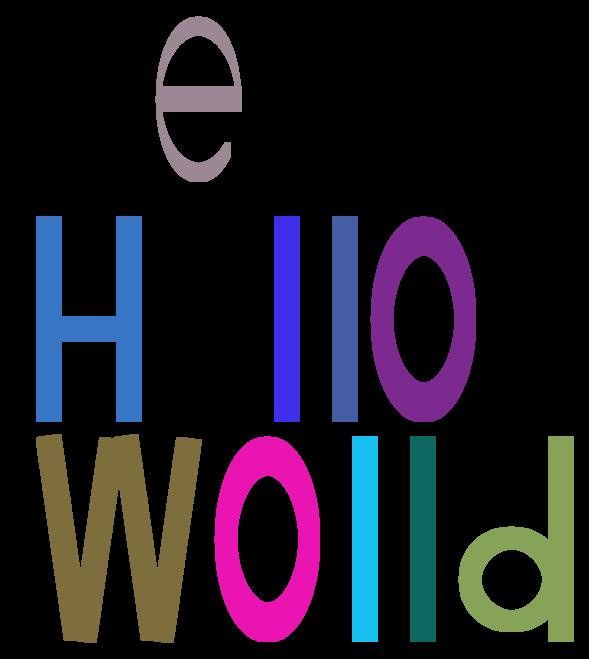
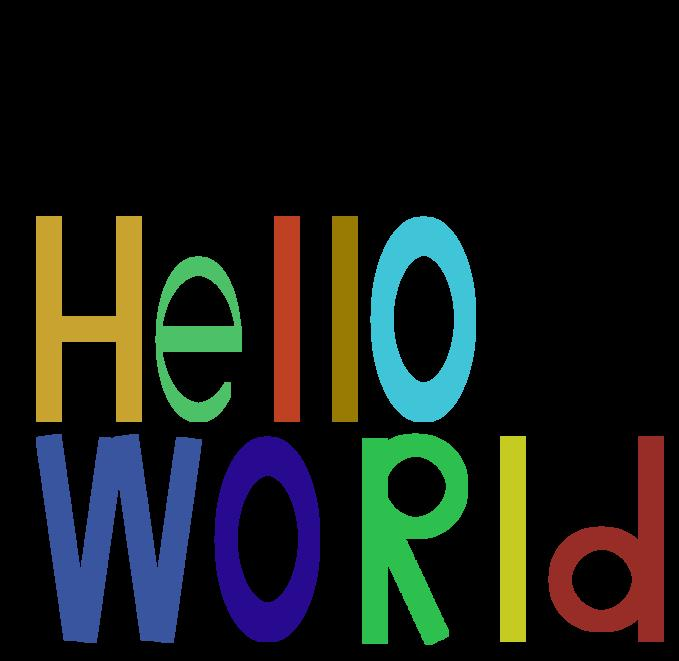
Fini

diff --git a/labo/src/tp1/LetterFactory.java b/labo/src/tp1/LetterFactory.java
@@ -37,7 +37,8 @@ public final class LetterFactory {
         mainStripe.removeAll(morsoSurper.getCoords());
         BaseShape Baremilieu =bare.rotate(degrees90).translate(new Point2d(wSpacing,-10.0));
         mainStripe.add(Baremilieu);
-        return mainStripe;
+        BaseShape e= mainStripe.translate(new Point2d(0.0,120.0));
+        return e;
     }
 
     // TODO
@@ -74,8 +75,19 @@ public final class LetterFactory {
 
     // TODO
     public static BaseShape create_r() {
+        Double degrees15 = Math.toRadians(25);
+        Double spacing = stripeThickness * 2+30;
         BaseShape mainStripe = new Rectangle(stripeThickness, maxHeight);
-        return mainStripe;
+        BaseShape leftStripe = new Rectangle(stripeThickness, (maxHeight)*2/3);
+        BaseShape Circle = new Circle(halfMaxHeight/2);
+        BaseShape centreStripe= new Circle((halfMaxHeight/2)*2/3);
+        Circle.removeAll(centreStripe.getCoords());
+        BaseShape cercleTranslate=Circle.translate(new Point2d(50.0, 45.0));
+        mainStripe.add(cercleTranslate);
+        BaseShape lefStripeTranslate= leftStripe.rotate(-degrees15).translate(new Point2d(spacing / 10, 80.0));
+        mainStripe.add(lefStripeTranslate);
+        BaseShape R= mainStripe.translate(new Point2d( -35.0, 0.0));
+        return R;
     }
 
     // TODO
